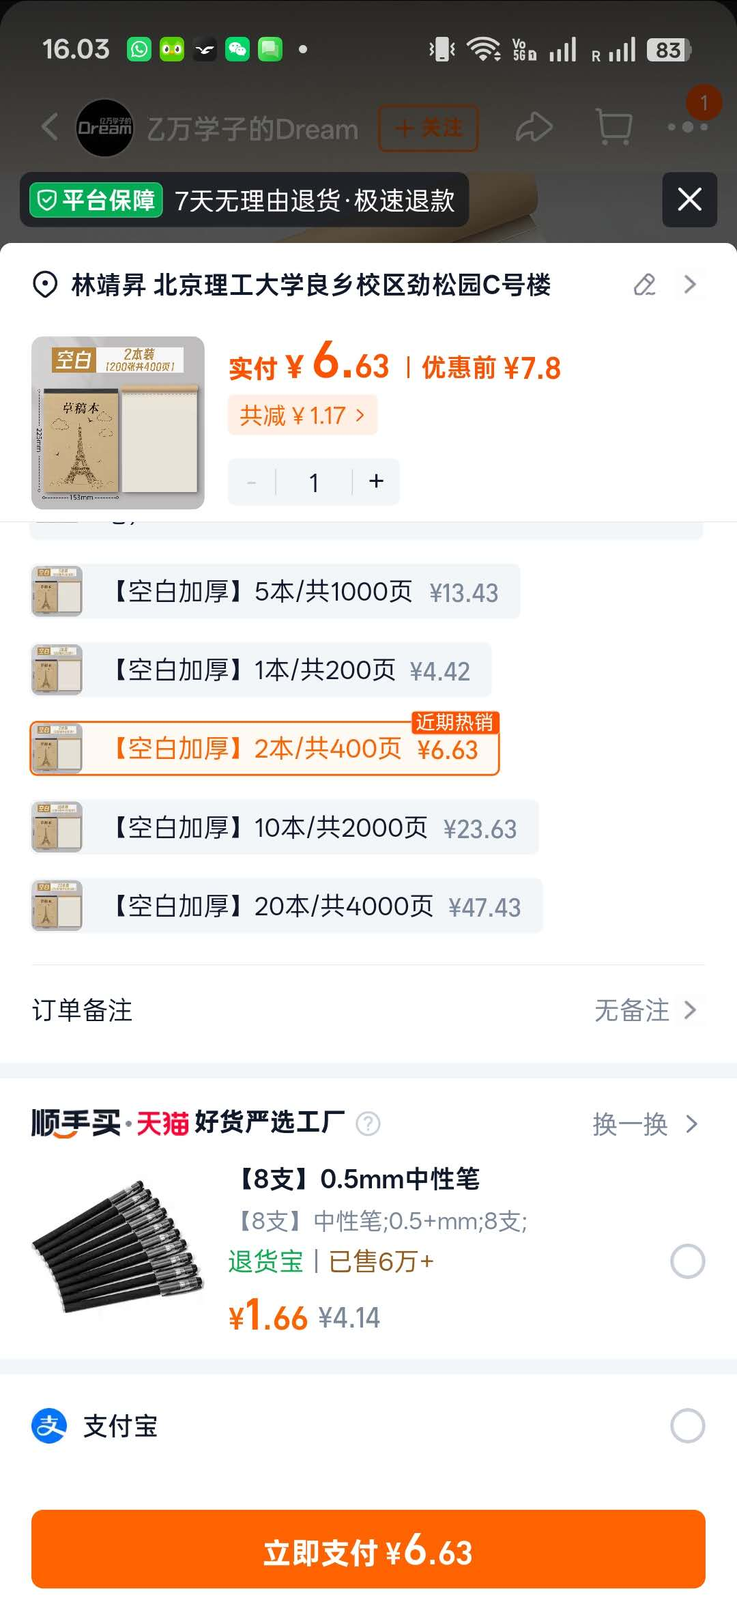
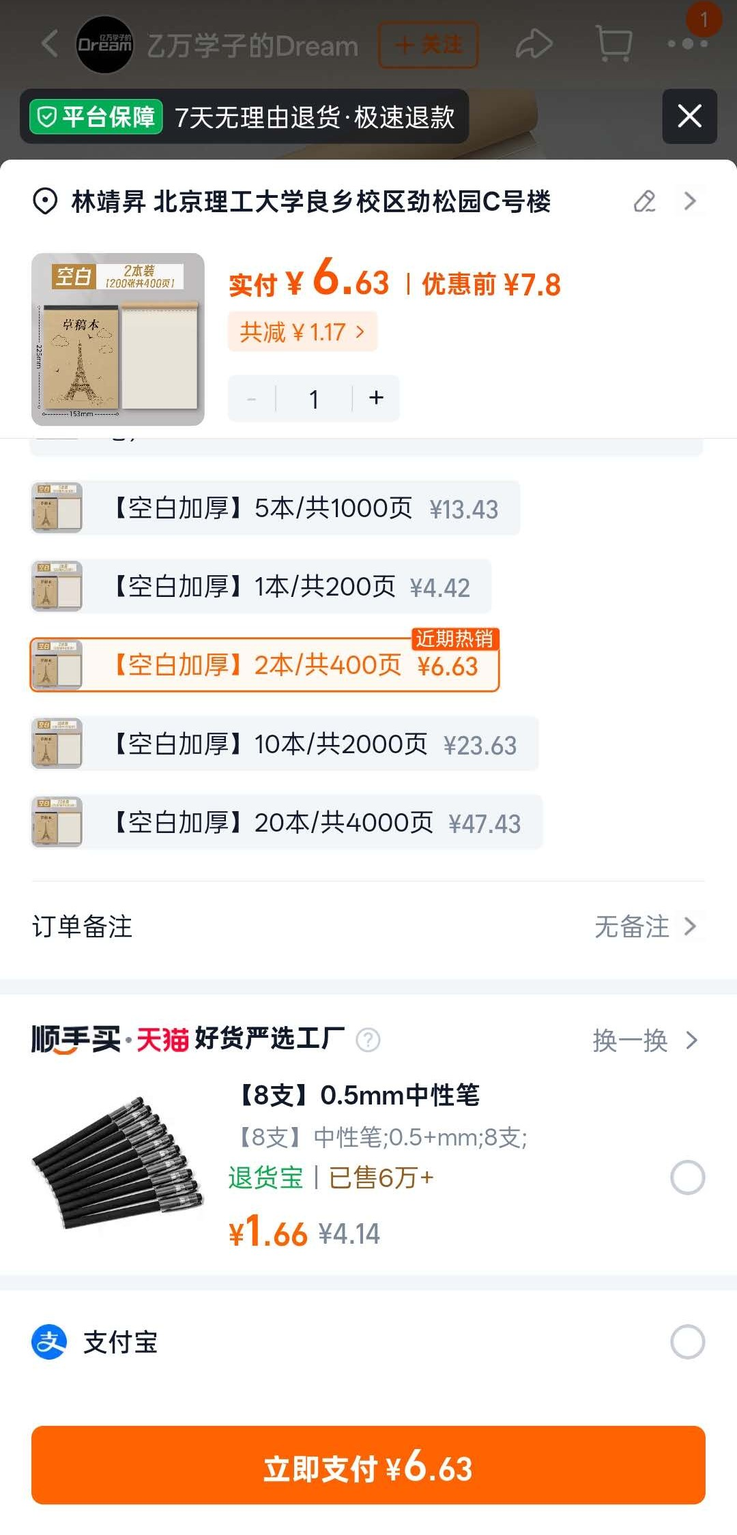
added illustrations to connectionist AI markdown and grammar check

diff --git a/Connectionist-AI/Combination (CI and CIChapter1).md b/Connectionist-AI/Combination (CI and CIChapter1).md
@@ -23,7 +23,7 @@ We have all used AI, and have seen how powerful it can be but do we really know 
 * GPS navigation 
 * Personalized marketing and many more
 
-here
+![thumbnail](../assets/mmexport1792743985589.jpg)
 ---
 ---
 
@@ -41,8 +41,8 @@ here
 ---
 | AI | A Child |
 | --- | --- |
-| *Given a massive amount of data to amke it remember* | *Exposed to an environment of people and materials* |
-| *Decrease or increase the volume based on performance* | *Given postive reinforcement evrytime it does something good* |
+| *Given a massive amount of data to make it remember* | *Exposed to an environment of people and materials* |
+| *Decrease or increase the volume based on performance* | *Given positive reinforcement every time it does something good* |
 
 * Modern LLMs (large language models), like ChatGPT, use what's called reinforcement learning from human feedback, RLHF, to train a reward model which then is used to train the language model.
 
@@ -56,11 +56,11 @@ here
 
 * Weak AI, or Artificial Narrow Intelligence (ANI), refers to those systems that are designed to perform specific tasks or solve particular problems within a defined scope—they cannot think or make decisions beyond them. Unlike humans, who can apply intelligence across different situations, Narrow AI operates under set constraints without general cognitive abilities.
 
-* A great exaple would be the algorithm that recommends us the videos we watch.
+* A great example would be the algorithm that recommends us the videos we watch.
 
     ##                      2. General AI(Strong AI),
 
-* Unlike the previous one, this one posseses the ability to think to apply previous information to a new situation it stumbles on.
+* Unlike the previous one, this one possesses the ability to think to apply previous information to a new situation it stumbles on.
 
 * The amusing thing is still a concept and hasn't been made yet.
 
@@ -72,7 +72,7 @@ here
 
 ---
 
-* Also we classify AI based on fuctionalities, as: -
+* Also we classify AI based on functionalities, as: -
 
     ##                      1. Reactive Machines.
 
@@ -94,7 +94,7 @@ here
 
     ##                      4. Self-Aware AI.
 
-* This a stage of AI that we see in movies or read about in books, where an AI model would possess cosciousness.
+* This a stage of AI that we see in movies or read about in books, where an AI model would possess consciousness.
 ___
 ___
 
@@ -104,11 +104,11 @@ ___
 
 * Pre training is the initial, large-scale learning phase in which a model is trained on massive, general-purpose datasets-such as text, images, audio, or video-to learn broad patterns and representations. This phase draws heavily on advances in machine learning theory and large-scale distributed systems.
 
-* At this stage the AI gets the basic knowledge it has, such as understanding different languages, recognizing images, and it will be able to identify any relationship between datas. This stage looks a lot like how child grows into his/her environment.
+* At this stage the AI gets the basic knowledge it has, such as understanding different languages, recognizing images, and it will be able to identify any relationship between data. This stage looks a lot like how child grows into his/her environment.
 
 * This stage is resource-intensive and only done once to build the foundation or the base. 
 
-* At this stage the AI can do most of the things it is suppose to do, and one of maybe the most usefull ones is, token-prediction, where the AI predicts the next word or character helping the process be faster.
+* At this stage the AI can do most of the things it is suppose to do, and one of maybe the most useful ones is, token-prediction, where the AI predicts the next word or character helping the process be faster.
 
     ##                                     2. Post - Training Phase.
 
@@ -116,7 +116,7 @@ ___
 
 * The AI is given human-crafted prompts to tune its conversation capability and safety.
 
-* If pretraining is like teaching a model foundational skills in school, post-training is job training. For example, a large language model can be post-trained to perform sentiment analysis, translation, or understanding of domain-specific language in fields like healthcare, law, or finance.
+* If pre-training is like teaching a model foundational skills in school, post-training is job training. For example, a large language model can be post-trained to perform sentiment analysis, translation, or understanding of domain-specific language in fields like healthcare, law, or finance.
 
     ##                                     3. Reinforcement Learning From Human Feedback(RLHF).
 
@@ -133,7 +133,7 @@ ___
 
 * The machine learns mapping first where it maps the input and the outputs using a mathematical expression y=f(x), to map inputs "x" to outputs "y".
 
-* The model compares its predictions against the ground truth lables and adjusts its internal parameters to minimize errors. We call this error adjustment.
+* The model compares its predictions against the ground truth labels and adjusts its internal parameters to minimize errors. We call this error adjustment.
 
 * After this training is done the model uses its learned relations ships to predict and produce an output for a new, unseen data. We call this generalization.
 
@@ -146,9 +146,9 @@ ___
 
 * This predicts categorical discrete labels (male vs female, dog vs cat).
 
-* When there are only two possible classes, we call it binary classification, when there is more than two classes we call it, multiclass classification.
+* When there are only two possible classes, we call it binary classification, when there is more than two classes we call it, multi-class classification.
 
-* We use classification in email spam detection, image and object recognition and etcetra.
+* We use classification in email spam detection, image and object recognition and etcetera.
 
 * As an example of supervised learning, consider an image classification model created to recognize images of vehicles and determine which type of vehicle they are. Such a model can power the CAPTCHA tests many websites use to detect spam bots.
 
@@ -158,9 +158,9 @@ ___
 
 * So basically its main goal is to predict a value or a quantity.
 
-* It predicts and produces and value for a house price and salaries, etcetra.
+* It predicts and produces and value for a house price and salaries, etcetera.
 
-* Supervised learning uses multiple alogorithms, those are : -
+* Supervised learning uses multiple algorithms, those are : -
 
     #### 1. Linear and Logistic Regressions.
 
@@ -172,12 +172,13 @@ ___
     #### 2. Decision Tree and Random Forest.
 
 * **Decision tree** is a single model, while a random forest is an ensemble model made up of many individual decision trees working together.
-  **here**m
+![decision tree](../assets/images.png)
+
 * Decision tree starts from a single node and splits it to the feature that provides the cleanest separations until it reaches a leaf node which then gives the final prediction. It is easy to visualize and kind of mimics human decision making but it is also prone to overfitting and makes up new data.
 
 * A **Random Forest** fixes the flaws of a single decision tree by creating a "forest" of many independent trees (often hundreds) and aggregating their answers. It relies on the concept that a collective crowd of average models will outperform a single "expert" model.
+![random forest](../assets/1_HO7OUBuwpTHswE3NTs47Fg.png)
 
- **Here**
     * **Bootstrapping (Bagging): -** Each tree is trained on a random sample of the rows from the dataset, sampled with replacement.
     * **Feature Randomness: -** When a tree splits a node, it is only allowed to choose from a random subset of features (columns) rather than evaluating all of them.
 
@@ -200,14 +201,13 @@ ___
     * So it measure the distance between the query point and every stored training example using a chosen distance metric.
 
     * It identifies the k training examples closest to the query point. And after that it will make a prediction.
- 
-  **Here**
+    ![k-nearest neighbour](<../assets/images (1).png>)
 
     #### 5. Gradient Boosting.
 
-    * It builds a sequential models to fix the errors prior iteriations.
+    * It builds a sequential models to fix the errors prior iterations.
 
-    * Basically this builds a strong predictive model by leaving the errors and mistakes(psudo-residuals) of the previous model.
+    * Basically this builds a strong predictive model by leaving the errors and mistakes(pseudo-residuals) of the previous model.
 
     ## Unsupervised Learning.
 
@@ -216,7 +216,7 @@ ___
 
 * Unlike supervised learning, in unsupervised learning an algorithm is made to find hidden patterns and relationships based on inherent similarities or even differences.
 
-* The algorithm is given a massive amount of data, without any predefined lables or categories. After that, the algorithm looks for small intricit similarities or hidden patterns within the given set of data so it can match them.
+* The algorithm is given a massive amount of data, without any predefined labels or categories. After that, the algorithm looks for small intricate similarities or hidden patterns within the given set of data so it can match them.
 
 * **There are three algorithms for unsupervised learning.**
  ### 1. Clustering.
@@ -224,7 +224,7 @@ ___
 * Clustering is a technique in unsupervised learning where that groups unlabeled data to groups based on their similarities.
 
 * Its biggest job is to let us understand a data structure for a later use.
-  **Here**
+![clustering](../assets/Clustering_Data.png)
 
     ### 2. Association Based Learning.
 
@@ -233,7 +233,9 @@ ___
 * It identifies patterns in-terms of if-then rules, showing how the presence of one implies the presence of the others.
 
 * So, a person is buying shoes, it is highly likely that the person will buy socks too.
-  **Here**
+![association based learning](../assets/mmexport1792743999844.jpg)
+
+    The image above shows an example of the application of association based learning in an app. In this case, **Taobao** creates a system that gives the user relevant items based on the one they are interested in. 
 
     ### 3. Dimensionality Reduction.
 
@@ -242,7 +244,7 @@ ___
 * It is really helpful in spotting suspicious actions like fraud and the similar by spotting the odd one out of a dataset.
 
 * It is also really helpful in customer segmentation, where the algorithm classifies the customer base through their demographics and purchasing habits.
-  **here** why the fuck is there a pear here
+![why the f is there a pear here?](../assets/lda.jpeg)
 
 * **Unsupervised learning is really useful when it comes to saving time but also really challenging since the model can pickup noises rather than real data from the dataset leading to overfitting.**
 
@@ -256,11 +258,11 @@ ___
 
 * The central premise of machine learning (ML) is that if you optimize a model’s performance on a dataset of tasks that adequately resemble the real-world problems it will be used for—through a process called model training—the model can make accurate predictions on the new data it sees in its ultimate use case.
 
-* Nowadays many AI models are used for extensive kind of things from really useful tasks to weridly as "companions", this is where ML comes in handy.
+* Nowadays many AI models are used for extensive kind of things from really useful tasks to weirdly as "companions", this is where ML comes in handy.
 
 * Training itself is simply a means to an end: generalization, the translation of strong performance on training data to useful results in real-world scenarios, is the fundamental goal of machine learning. In essence, a trained model is applying patterns it learned from training data to infer the correct output for a real-world task: the deployment of an AI model is therefore called AI inference.
 
-* **AI Inference: -** Is the operatioanl phase where an AI model processes a new unseen data to generate real time predictions, classifiactions or texts. This is explained extensively above.
+* **AI Inference: -** Is the operational phase where an AI model processes a new unseen data to generate real time predictions, classifications or texts. This is explained extensively above.
 
 * Machine learning is also associated with several other artificial intelligence subfields: -
 
@@ -268,19 +270,19 @@ ___
 
 * It is a specialized subset of machine learning that uses multilayered artificial neural networks to automatically learn complex patterns and representations from raw, unstructured data.
 
-* The term **"Deep"** refers to the multitiude of hidden layers used, ranging from three to hundreds to thousands that allow computersto solve intricate problems without manual feature engineering.
+* The term **"Deep"** refers to the multitude of hidden layers used, ranging from three to hundreds to thousands that allow computers to solve intricate problems without manual feature engineering.
 
     ##                      Natural Language Processing.
 
-* Natural language processing is a field of machine learning in which machines learn to understand natural language as spoken and written by humans, instead of the data and numbers normally used to program computers. This allows machines to recognize language, understand it, and respond to it, as well as create new text and translate between languages. Natural language processing enables familiar technology like chatbots and digital assistants like Siri or Alexa.
-  **Alexa**
+* Natural language processing is a field of machine learning in which machines learn to understand natural language as spoken and written by humans, instead of the data and numbers normally used to program computers. This allows machines to recognize language, understand it, and respond to it, as well as create new text and translate between languages. Natural language processing enables familiar technology like Chatbots and digital assistants like Siri or Alexa.
+![alexa](../assets/smartspeakers-2048px-echospot.jpg)
 
     ##                      Neural Network.
 
 * A neural network is a machine learning model that stacks simple "neurons" in layers and learns pattern-recognizing weights and biases from data to map inputs to outputs.
-  **Here**
+![neural network](../assets/62dc0501-8dda-4bd7-9ba9-fa1a9b8c7cb4-l.jpg)
 
-* While today’s deep neural networks (DNNs) power systems as complex as transformers and convolutional neural networks (CNNs), the origins of neural networks trace back to simple models such as linear regression and how the human brain digests, processes and decides on the information presented to it.
+* While today’s deep neural networks (DNNs) power systems as complex as transformers and convolution neural networks (CNNs), the origins of neural networks trace back to simple models such as linear regression and how the human brain digests, processes and decides on the information presented to it.
 
 * On a high level, the inspiration for neural networks comes from the biological neurons in the human brain, which communicate through electrical signals.
 
@@ -288,18 +290,18 @@ ___
 
 * In essence, the network learns how to transform raw features into meaningful patterns and use them to make predictions. This process is powered by two fundamental concepts: weights and biases.
 
-* **Weigths: -** Weights act like dials that control how strongly each input feature influences the decision—a word like “prize” may be given more weight than a common word like “hello.”
-  **Here**
+* **Weights: -** Weights act like dials that control how strongly each input feature influences the decision—a word like “prize” may be given more weight than a common word like “hello.”
+![weights](../assets/0_8whNUtmL6VIueydp.png)
 
 * **Biases: -** These are built-in values that influence the decision threshold allowing a neuron to activate even if the inputs are weak.
-  **Here**
+![biases](../assets/68d15da9135586b01fd081ef_ee4f3802.png)
 
-* Together, these model parameters determine how each neuron contributes to the overall computation. By adjusting these values during training, the network gradually learns to make accurate predictions. For example, it woll be able to determine if an email is really a phishing email or a legitimate one, that why sometimes even legitimate emails end up the smap or junk folder.
+* Together, these model parameters determine how each neuron contributes to the overall computation. By adjusting these values during training, the network gradually learns to make accurate predictions. For example, it will be able to determine if an email is really a phishing email or a legitimate one, that why sometimes even legitimate emails end up the spam or junk folder.
 
-* A neural netwrok is composed of: -
+* A neural network is composed of: -
 
      **Input Layer: -** This holds the raw features.
-     **Hidden Layes: -** Consists of artificial neurons (or nodes) that transform inputs into new representations. This is where the linear transformation between input and output happens.
+     **Hidden Layers: -** Consists of artificial neurons (or nodes) that transform inputs into new representations. This is where the linear transformation between input and output happens.
      **Output Layer: -** After performing the linear transformation in the hidden layer, a final prediction is made.
 
 * A neural network has a "neuron" for each input (each of the pixels of the images) and a neuron for each output (each of the 10 possible digits).
@@ -308,11 +310,11 @@ ___
 
 * So, the connection between the pixel and the zero is weighted low, and is weighted something higher for the rest of the outputs.
 
-* The real beauty of machine learning is that we let it figure stuff out and if it correctly guesses or predicts, we give it some kind of reinforcement, slightly increasing those weigthed votes, and if it gets it wrong we correct it so it can lower those weighted votes.
+* The real beauty of machine learning is that we let it figure stuff out and if it correctly guesses or predicts, we give it some kind of reinforcement, slightly increasing those weighted votes, and if it gets it wrong we correct it so it can lower those weighted votes.
 
-* The different thing about Neural Nework is, we can actually ramp it up, unlike the other learning approaches, by increasing the number of hidden layers which basically means adding more computing resources to it.
+* The different thing about Neural Network is, we can actually ramp it up, unlike the other learning approaches, by increasing the number of hidden layers which basically means adding more computing resources to it.
 
-* The downside lies on the complexity of the result they give us, it is a complext combination of numbers which can lead a person to solve a problem they don't understand, with a solution that they don't understand.
+* The downside lies on the complexity of the result they give us, it is a complex combination of numbers which can lead a person to solve a problem they don't understand, with a solution that they don't understand.
 
 *   But for a model to learn from data it need three core steps: -
 
@@ -320,31 +322,31 @@ ___
 
 *   Data flows forward from the input layer, through hidden layers, to the output layer.
 
-*   So first the model performs **Linear Combiantion**, where each neuron calculates a weighted sums of the inputs and adds the bias.
+*   So first the model performs **Linear Combination**, where each neuron calculates a weighted sums of the inputs and adds the bias.
 
-*   Then it performs **Activation Function**, where a non-linear function like the ReLU, Sigmoid or Tanh are added to the sum to introuduce non-linearity and generate the neuron's output (activation).
+*   Then it performs **Activation Function**, where a non-linear function like the ReLU, Sigmoid or Tanh are added to the sum to introduce non-linearity and generate the neuron's output (activation).
 
 | ReLu | Sigmoid | Tanh |
 | :--- | :--- | :--- |
-| Outputs the input directly if it is positive, if not the output is zero. | Compresses real valued numbers into probability-like scale between 0 and 1. | Concentrarted the value around zero in an shaped curve so it will be easier for weight updates, since the convergence will be around zero. |
+| Outputs the input directly if it is positive, if not the output is zero. | Compresses real valued numbers into probability-like scale between 0 and 1. | Concentrated the value around zero in an shaped curve so it will be easier for weight updates, since the convergence will be around zero. |
 
-* Lastly, it gives us a **Final Output**, where the process repeats again and again until the final layer produces a predicition.
+* Lastly, it gives us a **Final Output**, where the process repeats again and again until the final layer produces a prediction.
 
     ###                     2. Loss Calculation.
 
-* This is the stage where error measurment is performed. At this stage the model measures compares its predicted output( let's call it y') to the true target output(y) using a loss function or cost function to quantify its deviation from the true output or how wrong it is.
+* This is the stage where error measurement is performed. At this stage the model measures compares its predicted output( let's call it y') to the true target output(y) using a loss function or cost function to quantify its deviation from the true output or how wrong it is.
 
 * The entire training objective is to minimize this loss value.
 
     ###                     3. Backpropagation.
 
-* At thi stage what happnes is backpropagation moves backwards to see how much each weight and bias contributed to the error.
+* At thi stage what happens is backpropagation moves backwards to see how much each weight and bias contributed to the error.
 
 * This pinpoints where it got it wrong so it will be easier to minimize it on the next rodeo.
 
     ###                     Types Of Neural Networks.
 
-* **Convolutional neural networks (CNNs or convnets): -** Designed for grid-like data such as images. CNNs excel at image recognition, computer vision and facial recognition thanks to convolutional filters that detect spatial hierarchies of features. 
+* **Convolutional neural networks (CNNs or convents): -** Designed for grid-like data such as images. CNNs excel at image recognition, computer vision and facial recognition thanks to convolutional filters that detect spatial hierarchies of features. 
 
 * **Recurrent neural networks (RNNs): -** Incorporate feedback loops that allow information to persist across time steps. RNNs are well-suited for speech recognition, time series forecasting and sequential data. 
 
@@ -360,12 +362,12 @@ ___
 
 * As we mentioned above models also train via backpropagation which is really useful in detecting mistakes by literally back-tracking and trying to pinpoint them.
 
-* But one of teach and money savy operation is: - **Hardware Acceleration,** it is basically using massive amounts of specialized GPUs and processors to perform tasks that are repetative and making the process of the neural netwrok faster than standard CPUs.
+* But one of teach and money savy operation is: - **Hardware Acceleration,** it is basically using massive amounts of specialized GPUs and processors to perform tasks that are repetitive and making the process of the neural network faster than standard CPUs.
 
 * This process is really important in speeding up processes like forward propagation, loss calculation and backproagation since they need to be done million, if not billions of times.
 
 
-* Now lets get to the fun part, have you ever imagined how an AI models approaches human intelligence. It is all about mimicking the human brain but not about replecating it, so there must be a way or two or even three to mimic human intelligence, however great it is. The next part walks us through one of the approaches a model mimic human intelligence.
+* Now lets get to the fun part, have you ever imagined how an AI models approaches human intelligence. It is all about mimicking the human brain but not about replicating it, so there must be a way or two or even three to mimic human intelligence, however great it is. The next part walks us through one of the approaches a model mimic human intelligence.
 
 # **Chapter 4**
 
@@ -485,7 +487,7 @@ Show inputs `x1 = 0.8` (boxiness) and `x2 = 0.6` (size), with arrows weighted `w
 Show the neuron adding `2 × 0.8 + 1 × 0.6 = 2.2` and checking threshold `1.5`.
 Label the single outgoing arrow `output = 1` ("truck-like"). -->
 
-**here**
+![one artificial neuron](../assets/Threshold%20Neuron%20Truck%20Classification.png)
 
 ### A note on bias
 
@@ -495,7 +497,7 @@ Many descriptions rewrite the threshold as an extra number called the **bias par
 
 A **biological neuron** is a living cell with chemistry and structure far richer than a weighted sum. The artificial neuron borrows one *idea* (many signals combine, and the result is passed on) and turns it into arithmetic. Calling it "a tiny brain cell" is a metaphor, not a description.
 
-**here**
+![neuron vs bio neuron](../assets/1SgJPlfKHwL-qis-aL19Fyg.png)
 
 > **Check yourself.** In the example, what happens to Image A's output if `w1` is changed from 2 to 0.5?
 > **Answer:** The sum becomes (0.5 x 0.8) + (1 x 0.6) = 1.0, which is below 1.5, so the output becomes 0. A weight change flipped the decision.
@@ -532,7 +534,7 @@ The output neuron receives the **outputs of the hidden neurons**, not the origin
 - For Image A, label hidden sums and outputs `2.2 → 1`, `0.2 → 0`, and final output `1`; add a left-to-right "forward pass" arrow.
 - Keep the neuron names neutral: neither hidden neuron is an exact logical AND rule. -->
 
-**here**
+![two hidden neuron network](../assets/3b09a48e222fd65457006931b5a771aa487ffb09d42d6a015b026cf9342c4539.png)
 
 ### A second forward pass: when both hidden neurons activate
 
@@ -567,7 +569,7 @@ Our hand-calculated neurons use a **hard threshold** and output only 0 or 1. Man
 
 In our **supervised learning** example, **training** means adjusting model parameters using **labeled examples**. A **labeled example** pairs an input with a reference answer, often supplied by a human reviewer. In Harbor-17, that is an image or its numerical features paired with "truck" or "not truck". Other types of machine learning exist, but supervised classification is our focus.
 
-**Here**
+![training learning with weights](../assets/Supervised%20Learning%20Infographic.png)
 
 The main idea is a repeating loop:
 
@@ -612,7 +614,7 @@ That change fixes the van example. But if Image A is truly a truck, its new sum 
 - Show a small fictional van image and its reference label `not truck` beside the Compare step.
 - Mark weight adjustment as occurring in **training**, not during ordinary inference; leave the detailed numbers for the optional box. -->
 
-**here**
+![training loop](../assets/5f4453abc19d0783adc4968c1c47158f2546268f145001e51b00fd1e17cdb48d.png)
 
 ### Inference: using the learned weights
 
@@ -662,10 +664,10 @@ To check performance, keep some **held-out examples** out of the weight-adjustme
 ### Arrays and matrices
 
 - An **array** is an ordered list of values. The feature list `[0.8, 0.6]` is an array.
-- A **matrix** is a grid of values arranged in rows and columns. A tiny grayscale image *is* a matrix, because each cell holds a brightness number.
+- A **matrix** is a grid of values arranged in rows and columns. A tiny gray-scale image *is* a matrix, because each cell holds a brightness number.
 
 ```text
-A 3x3 grayscale image (invented brightness values, 0 = black, 255 = white)
+A 3x3 gray-scale image (invented brightness values, 0 = black, 255 = white)
 
   [  12  200  198 ]
   [  15  210  205 ]    -> can be "flattened" into an array of 9 numbers
@@ -696,12 +698,12 @@ Doing these weighted sums in an organized group is one reason arrays and matrice
 <!--**HAND-DRAWN DIAGRAM TODO #4 — Pixel values and feature arrays**  
 **Caption:** A pixel grid and a two-feature input are different representations with different weight requirements.
 
-- Show a `3 × 3` grayscale grid flattened into **9 pixel values**.
+- Show a `3 × 3` gray-scale grid flattened into **9 pixel values**.
 - Add a **dashed, explicitly assumed** step: "two features were already measured," leading to `boxiness = 0.8` and `size = 0.6`.
 - Connect those two values to a `2 × 2` weight grid, then to weighted sums `2.2` and `0.2`.
 - Label the distinction: **nine direct pixel inputs would need nine weights per neuron**, not two. -->
 
-**here**
+![pixel values and feature arrays](../assets/ba8c24c1feec2e64cee5977ce00316c5d4af54ba9c7f17b4a94bba8c52d767a7.png)
 
 ### What the earlier DSA tools do and do not do
 
